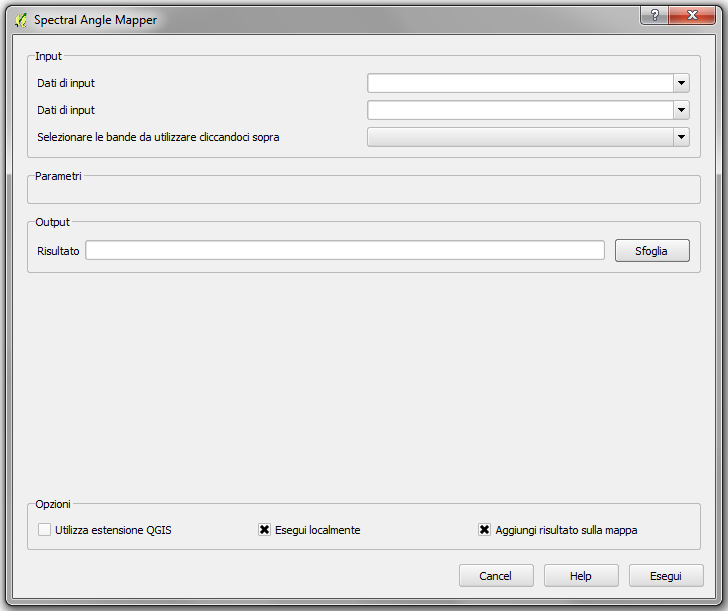
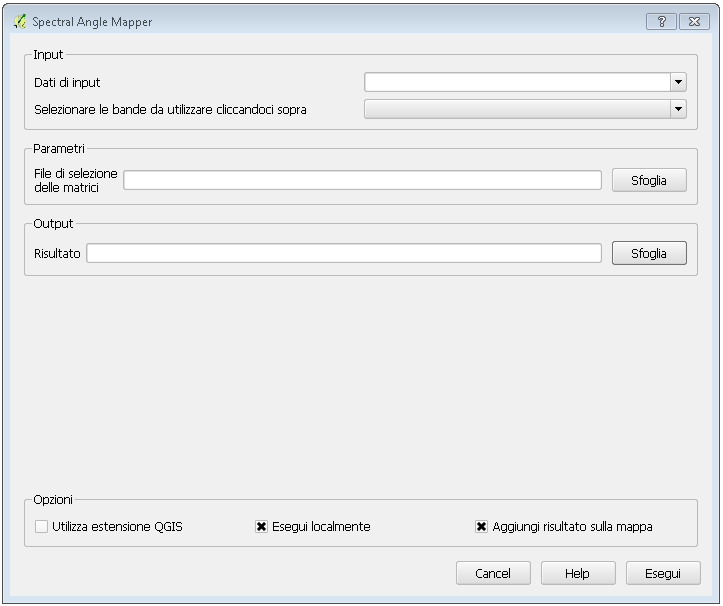
Update helps

Changed region(s): [[0.0, 0.0, 1.0, 1.0], [0.3956, 0.1782, 0.426, 0.2079]]

diff --git a/docs/source/tools/spectral_angle_mapper.rst b/docs/source/tools/spectral_angle_mapper.rst
@@ -1,7 +1,7 @@
 Spectral Angle Mapper
 ======================
 
-Il modulo esegue la classificazione di immagini utilizzando l'algoritmo Spectral Angle Mapper (SAM). SAM è un classificatore spettrale che utilizza un angolo n-dimensionale per abbinare i pixel dell'immagine a degli spettri di riferimento. L'algoritmo determina la somiglianza spettrale fra due spettri calcolando l'angolo tra gli spettri e trattandoli come vettori in uno spazio con dimensionalità pari al numero di banda. Questa tecnica , se utilizzata su dati di riflettanza calibrati, è relativamente insensibile ad effetti di illuminazione e albedo. Nel caso dell'algoritmo implementato in questo modulo gli spettri di riferimento sono estatti dall'immagine passata in input.
+Il modulo esegue la classificazione di immagini utilizzando l'algoritmo Spectral Angle Mapper (SAM). SAM è un classificatore spettrale che utilizza un angolo n-dimensionale per abbinare i pixel dell'immagine a degli spettri di riferimento. L'algoritmo determina la somiglianza spettrale fra due spettri calcolando l'angolo tra gli spettri e trattandoli come vettori in uno spazio con dimensionalità pari al numero di banda. Questa tecnica , se utilizzata su dati di riflettanza calibrati, è relativamente insensibile ad effetti di illuminazione e albedo.
 
 .. only:: latex
 
@@ -11,17 +11,15 @@ Il modulo esegue la classificazione di immagini utilizzando l'algoritmo Spectral
 Input
 ------------
 
-**Dati di input vettoriale**: file vettoriale contente le aree di training e l'indicazione delle classi.
-
-**Seleziona la colonna con indicazione della classe**: selezionare tra le colonne del file vettoriale quella che indica le classi.
-
-**Dati di input raster** (opzionale): immagine da cui estrarre le feature e da classificare (opzionale).
+**Dati di input**: immagine raster da classificare.
 
 **Seleziona le bande da utilizzare cliccandoci sopra** (opzionale): selezionare le bande da utilizzare. Se non si seleziona nulla vengono usate tutte le bande.
 
 
 Parametri
 ------------
+
+File di selezione delle matrici: file contenete le matrici delle firme spettrali.
 
 Output
 ------------
